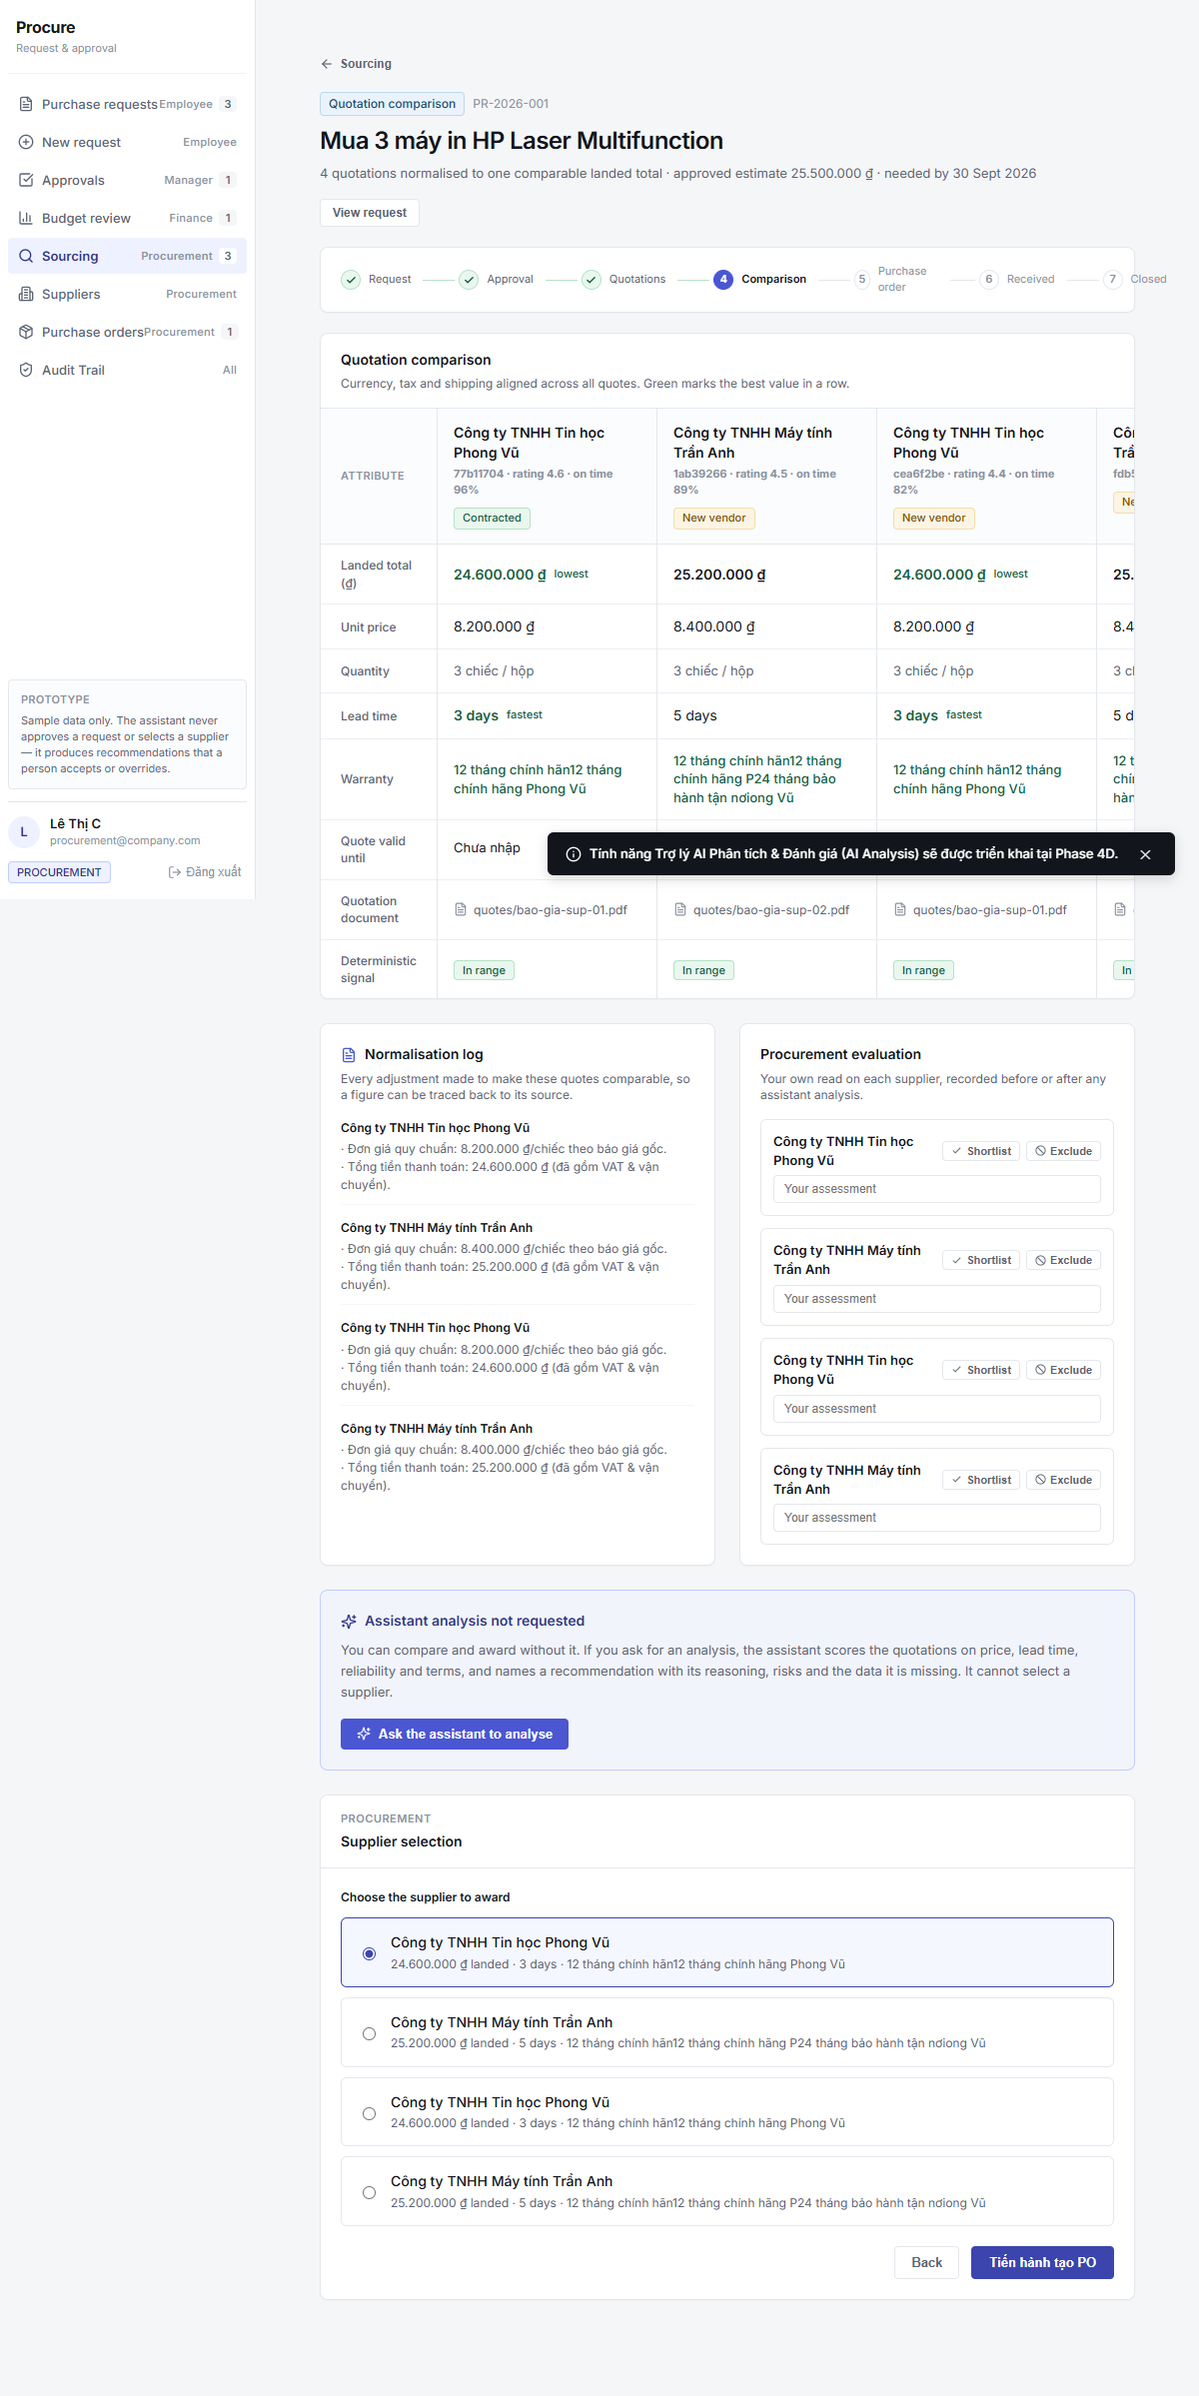
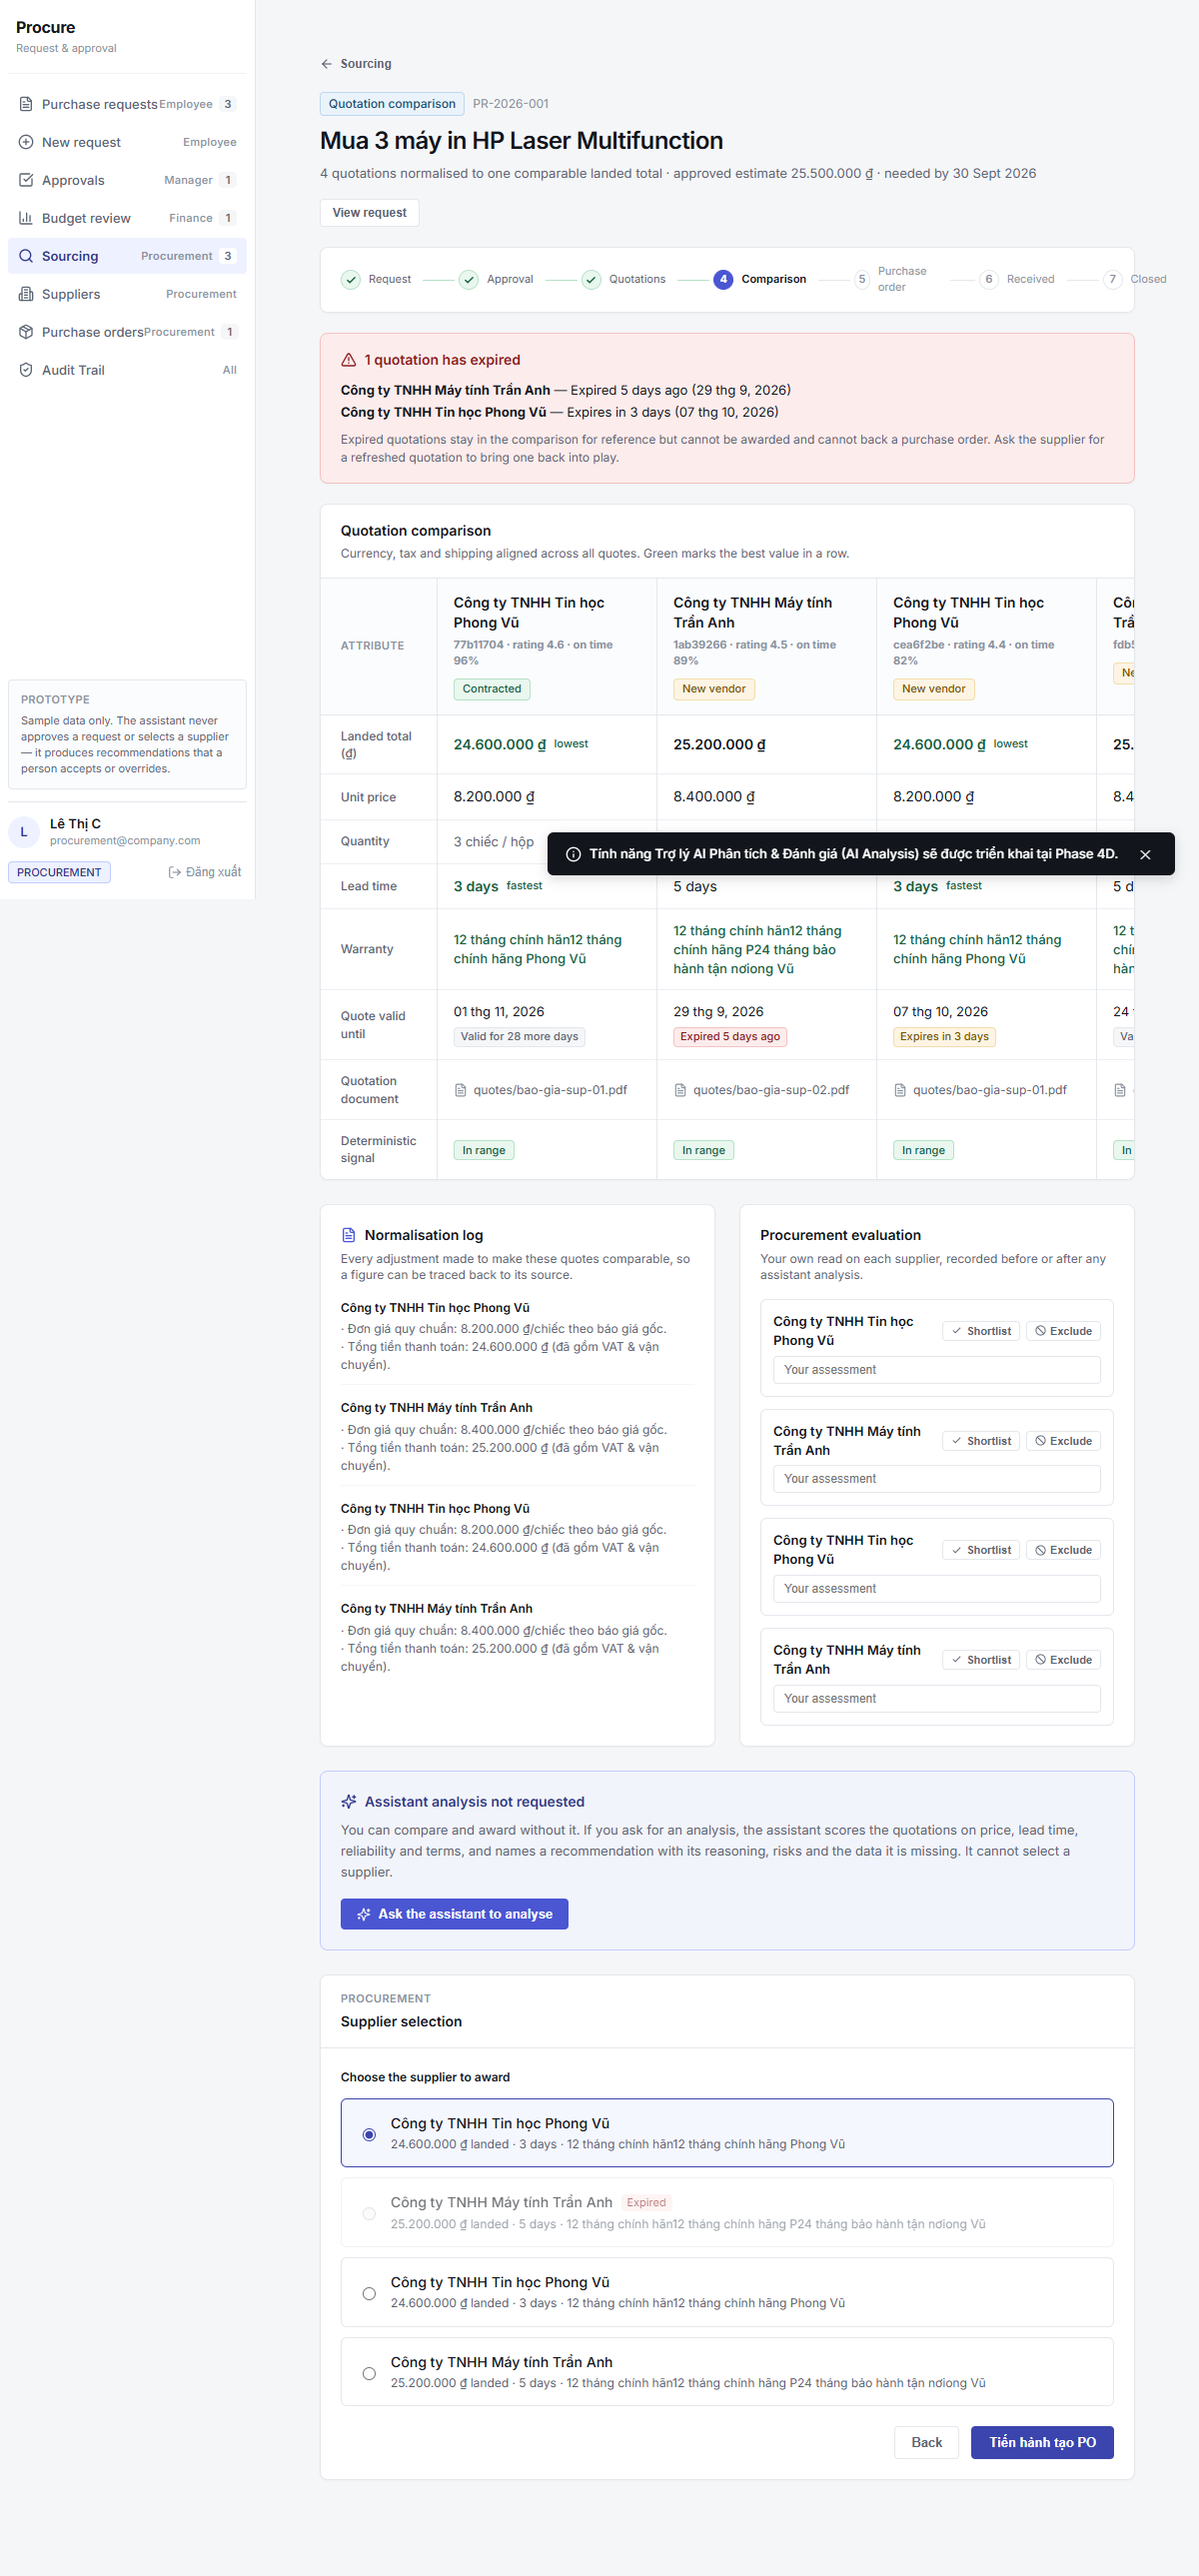
fix(phase-4c): enforce HD-13/K-2 all authenticated roles compare access and real validUntil expiry warning flow

diff --git a/frontend/scripts/test_phase4c_comparison_e2e.js b/frontend/scripts/test_phase4c_comparison_e2e.js
@@ -1,6 +1,7 @@
 import puppeteer from 'puppeteer-core';
 import fs from 'fs';
 import path from 'path';
+import { execSync } from 'child_process';
 import { fileURLToPath } from 'url';
 
 const __filename = fileURLToPath(import.meta.url);
@@ -34,6 +35,15 @@ async function dismissToast(page) {
 
 async function runPhase4CComparisonE2E() {
   console.log('=== STARTING PHASE 4C COMPARISON BROWSER E2E & VISUAL QA ===');
+
+  console.log('Ensuring Supabase test user identities are bound in PostgreSQL...');
+  try {
+    const pythonExe = path.resolve(__dirname, '../../backend/.venv/Scripts/python.exe');
+    const syncScript = path.resolve(__dirname, '../../scratch/sync_all_supabase_users.py');
+    execSync(`"${pythonExe}" "${syncScript}"`, { stdio: 'inherit' });
+  } catch (err) {
+    console.warn('User sync warning:', err.message);
+  }
 
   const browser = await puppeteer.launch({
     executablePath: CHROME_PATH,
@@ -137,8 +147,26 @@ async function runPhase4CComparisonE2E() {
     await delay(800);
     console.log('✓ Figma 9:4790 (Comparison Ready) loaded.');
 
-    // 6. VERIFY POSTGRESQL REAL DATA IN COMPARISON MATRIX
-    console.log('\n--- STEP 5: VERIFY DATABASE AUTHORITY IN COMPARISON MATRIX ---');
+    // 6. VERIFY EXPIRY WARNING BANNER & REAL VALIDUNTIL STATE (FIGMA 9:4851)
+    console.log('\n--- STEP 5: VERIFY REAL VALIDUNTIL & EXPIRY WARNING BANNER (FIGMA 9:4790 / 9:4851) ---');
+    await page.waitForSelector('[data-testid="expiry-warning-banner"]', { timeout: 10000 });
+    const bannerText = await page.$eval('[data-testid="expiry-warning-banner"]', el => el.innerText);
+    console.log(`Banner content:\n${bannerText}`);
+
+    if (bannerText.includes('quotation has expired') || bannerText.includes('quotations have expired')) {
+      console.log('✓ PASS: Expiry warning heading verified.');
+    } else {
+      throw new Error(`Expected expiry heading in banner, got: ${bannerText}`);
+    }
+
+    if (bannerText.includes('Expired') && (bannerText.includes('Trần Anh') || bannerText.includes('Phong Vũ'))) {
+      console.log('✓ PASS: Real expired supplier quote and timeline verified in banner.');
+    } else {
+      throw new Error(`Expected expired supplier in banner, got: ${bannerText}`);
+    }
+
+    // 7. VERIFY POSTGRESQL REAL DATA IN COMPARISON MATRIX
+    console.log('\n--- STEP 6: VERIFY DATABASE AUTHORITY IN COMPARISON MATRIX ---');
     const matrixText = await page.$eval('[data-testid="comparison-matrix"]', el => el.innerText);
 
     // Verify joined supplier names from PostgreSQL
@@ -161,6 +189,11 @@ async function runPhase4CComparisonE2E() {
     // Verify warranty terms
     if (matrixText.includes('12 tháng') || matrixText.includes('chính hãng')) {
       console.log('✓ PASS: Real warrantyTerms from PostgreSQL verified.');
+    }
+
+    // Verify Quote valid until row
+    if (matrixText.includes('Quote valid until') && (matrixText.includes('Expired') || matrixText.includes('Valid for'))) {
+      console.log('✓ PASS: Real validUntil status badges verified in comparison matrix.');
     }
 
     // Verify attribute indicators

diff --git a/frontend/src/components/ComparisonView.tsx b/frontend/src/components/ComparisonView.tsx
@@ -604,9 +604,10 @@ export const ComparisonView: React.FC<ComparisonViewProps> = ({
       </div>
 
       {/* Expiry Warning Box (Figma 9:4851) */}
-      {(expiredQuotes.length > 0 || expiringSoonQuotes.length > 0) && (
+      {expiredQuotes.length > 0 && (
         <div 
           data-testid="expiry-warning-banner"
+          data-node-id="9:4851"
           style={{
             backgroundColor: '#fdecec',
             border: '0.667px solid #f4c2c2',
@@ -616,12 +617,10 @@ export const ComparisonView: React.FC<ComparisonViewProps> = ({
             marginBottom: '20px',
           }}
         >
-          <div style={{ display: 'flex', alignItems: 'center', gap: '8px', marginBottom: '8px' }}>
+          <div data-node-id="9:4852" style={{ display: 'flex', alignItems: 'center', gap: '8px', marginBottom: '8px' }}>
             <AlertTriangle size={16} color="#8e1e1e" />
-            <h3 style={{ margin: 0, fontSize: '14px', fontWeight: 600, color: '#8e1e1e' }}>
-              {expiredQuotes.length > 0 
-                ? `${expiredQuotes.length} quotation has expired` 
-                : `${expiringSoonQuotes.length} quotation is expiring soon`}
+            <h3 data-node-id="9:4856" style={{ margin: 0, fontSize: '14px', fontWeight: 600, color: '#8e1e1e' }}>
+              {expiredQuotes.length} quotation{expiredQuotes.length > 1 ? 's have' : ' has'} expired
             </h3>
           </div>
 

diff --git a/backend/tests/test_quotation_comparison_prisma.py b/backend/tests/test_quotation_comparison_prisma.py
@@ -20,9 +20,11 @@ Test Cases (10 Required):
 import asyncio
 import threading
 import pytest
+from datetime import datetime, timezone, timedelta
 from decimal import Decimal
 from fastapi.testclient import TestClient
 from app.main import app
+from app.dependencies.auth import get_current_identity, AuthenticatedUser
 from app.services.db import get_prisma, connect_db, disconnect_db
 from app.services.procurement_service import ProcurementService, db
 
@@ -351,3 +353,146 @@ def test_tc_cmp_010_anomaly_result_is_deterministic():
         assert "CẢNH BÁO" in q3["anomalyReason"]
         assert "cao hơn" in q3["anomalyReason"]
     run_async(run_test())
+
+
+def test_tc_cmp_011_valid_until_expired_flagged():
+    """TC-CMP-011: validUntil < current time -> isExpired is True, ISO string returned."""
+    async def run_test():
+        pr = await helper_create_approved_pr("Expired Quote")
+        now = datetime.now(timezone.utc)
+        expired_date = now - timedelta(days=5)
+        future_date = now + timedelta(days=30)
+
+        await ProcurementService.create_quotation_prisma(
+            purchase_request_id=pr["id"],
+            supplier_id="SUP-01",
+            total_amount=Decimal("20000000.00"),
+            quantity=1,
+            valid_until=expired_date
+        )
+        await ProcurementService.create_quotation_prisma(
+            purchase_request_id=pr["id"],
+            supplier_id="SUP-02",
+            total_amount=Decimal("22000000.00"),
+            quantity=1,
+            valid_until=future_date
+        )
+
+        comparisons = await ProcurementService.compare_quotations_prisma(pr["id"])
+        q_expired = next(c for c in comparisons if c["supplierId"] == "SUP-01")
+        q_valid = next(c for c in comparisons if c["supplierId"] == "SUP-02")
+
+        assert q_expired["isExpired"] is True
+        assert q_expired["validUntil"] is not None
+        assert q_valid["isExpired"] is False
+        assert q_valid["validUntil"] is not None
+    run_async(run_test())
+
+
+def test_tc_cmp_012_valid_until_future_not_expired():
+    """TC-CMP-012: validUntil > current time -> isExpired is False."""
+    async def run_test():
+        pr = await helper_create_approved_pr("Future Quotes")
+        now = datetime.now(timezone.utc)
+
+        await ProcurementService.create_quotation_prisma(
+            purchase_request_id=pr["id"],
+            supplier_id="SUP-01",
+            total_amount=Decimal("15000000.00"),
+            quantity=1,
+            valid_until=now + timedelta(days=10)
+        )
+        await ProcurementService.create_quotation_prisma(
+            purchase_request_id=pr["id"],
+            supplier_id="SUP-02",
+            total_amount=Decimal("16000000.00"),
+            quantity=1,
+            valid_until=now + timedelta(days=20)
+        )
+
+        comparisons = await ProcurementService.compare_quotations_prisma(pr["id"])
+        for q in comparisons:
+            assert q["isExpired"] is False
+            assert q["validUntil"] is not None
+    run_async(run_test())
+
+
+def test_tc_cmp_013_valid_until_none_handled_gracefully():
+    """TC-CMP-013: validUntil is None -> validUntil is None, isExpired is False."""
+    async def run_test():
+        pr = await helper_create_approved_pr("No Expiry Quotes")
+
+        await ProcurementService.create_quotation_prisma(
+            purchase_request_id=pr["id"],
+            supplier_id="SUP-01",
+            total_amount=Decimal("18000000.00"),
+            quantity=1,
+            valid_until=None
+        )
+        await ProcurementService.create_quotation_prisma(
+            purchase_request_id=pr["id"],
+            supplier_id="SUP-02",
+            total_amount=Decimal("19000000.00"),
+            quantity=1,
+            valid_until=None
+        )
+
+        comparisons = await ProcurementService.compare_quotations_prisma(pr["id"])
+        for q in comparisons:
+            assert q["validUntil"] is None
+            assert q["isExpired"] is False
+    run_async(run_test())
+
+
+def test_tc_cmp_014_all_authenticated_roles_can_compare_hd13_k2():
+    """
+    TC-CMP-014: HD-13 / K-2 Policy Verification.
+    All authenticated roles (EMPLOYEE, PROCUREMENT, MANAGER, FINANCE, ADMIN)
+    MUST be permitted to call POST /api/quotations/compare when preconditions are met.
+    Unauthenticated calls MUST return HTTP 401.
+    """
+    from httpx import AsyncClient, ASGITransport
+
+    async def run_test():
+        pr = await helper_create_approved_pr("HD13-K2 RBAC")
+        await ProcurementService.create_quotation_prisma(
+            purchase_request_id=pr["id"],
+            supplier_id="SUP-01",
+            total_amount=Decimal("10000000.00"),
+            quantity=1
+        )
+        await ProcurementService.create_quotation_prisma(
+            purchase_request_id=pr["id"],
+            supplier_id="SUP-02",
+            total_amount=Decimal("11000000.00"),
+            quantity=1
+        )
+
+        transport = ASGITransport(app=app)
+        async with AsyncClient(transport=transport, base_url="http://test") as ac:
+            # 1. Unauthenticated -> 401
+            app.dependency_overrides.clear()
+            unauth_resp = await ac.post("/api/quotations/compare", json={"purchaseRequestId": pr["id"]})
+            assert unauth_resp.status_code == 401
+
+            # 2. All 5 authenticated roles -> 200 (HD-13 / K-2)
+            roles = ["EMPLOYEE", "PROCUREMENT", "MANAGER", "FINANCE", "ADMIN"]
+            for role in roles:
+                app.dependency_overrides[get_current_identity] = lambda r=role: AuthenticatedUser(
+                    id=f"test-uuid-{r.lower()}",
+                    auth_sub=f"auth-sub-{r.lower()}",
+                    email=f"{r.lower()}@company.com",
+                    name=f"Test {r}",
+                    role=r,
+                    departmentId="DEPT-IT"
+                )
+                resp = await ac.post("/api/quotations/compare", json={"purchaseRequestId": pr["id"]})
+                assert resp.status_code == 200, f"Role {role} failed with status {resp.status_code}: {resp.text}"
+                data = resp.json()
+                assert data["purchaseRequestId"] == pr["id"]
+                assert len(data["comparisons"]) == 2
+
+            app.dependency_overrides.clear()
+
+    run_async(run_test())
+

diff --git a/backend/app/services/procurement_service.py b/backend/app/services/procurement_service.py
@@ -1,5 +1,5 @@
 import uuid
-from datetime import datetime
+from datetime import datetime, timezone
 from typing import Dict, Any, List, Optional, Union
 from decimal import Decimal, ROUND_HALF_UP, InvalidOperation as DecimalException
 from prisma import errors
@@ -1331,6 +1331,7 @@ class ProcurementService:
         prices = [Decimal(str(q.totalAmount)) / Decimal(str(q.quantity)) for q in quotes]
         avg_price = sum(prices) / Decimal(str(len(prices))) if prices else Decimal("0.00")
 
+        now_utc = datetime.now(timezone.utc)
         results = []
         for q in quotes:
             u_price = (Decimal(str(q.totalAmount)) / Decimal(str(q.quantity))).quantize(Decimal("0.01"), rounding=ROUND_HALF_UP)
@@ -1342,11 +1343,18 @@ class ProcurementService:
                     is_anomaly = True
                     anomaly_reason = f"CẢNH BÁO: Đơn giá {float(u_price):,.0f}đ cao hơn {float(diff_ratio * 100):.1f}% so với đơn giá trung bình ({float(avg_price):,.0f}đ)."
 
+            is_expired = False
+            if getattr(q, "validUntil", None):
+                q_valid = q.validUntil if q.validUntil.tzinfo else q.validUntil.replace(tzinfo=timezone.utc)
+                is_expired = q_valid < now_utc
+
             formatted = ProcurementService._format_quotation_dict(q)
             formatted["isAnomaly"] = is_anomaly
             formatted["is_anomaly"] = is_anomaly
             formatted["anomalyReason"] = anomaly_reason
             formatted["anomaly_reason"] = anomaly_reason
+            formatted["isExpired"] = is_expired
+            formatted["is_expired"] = is_expired
             results.append(formatted)
         return results
 
